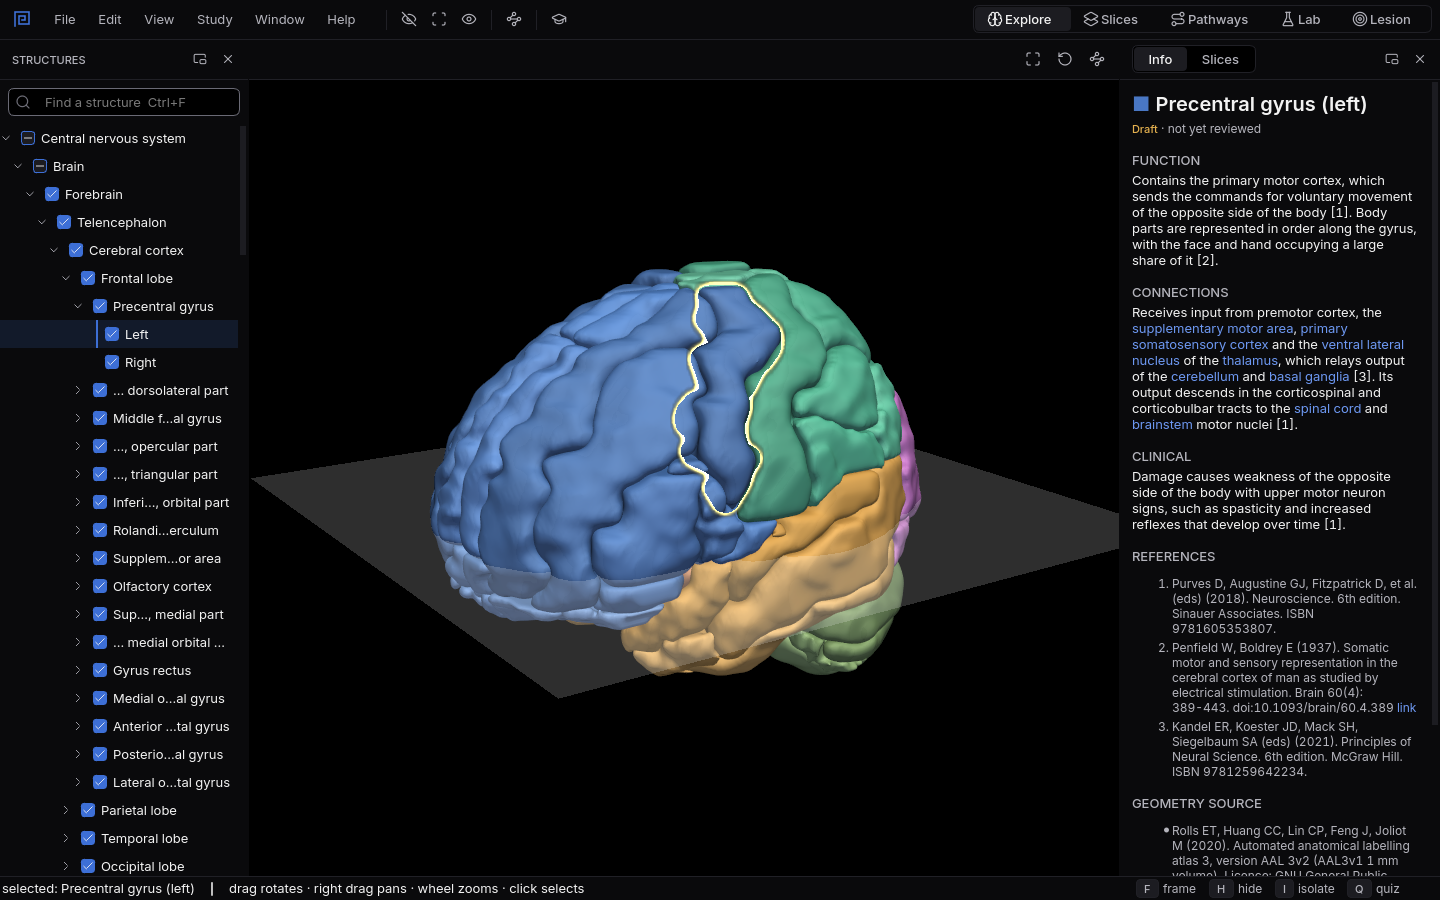
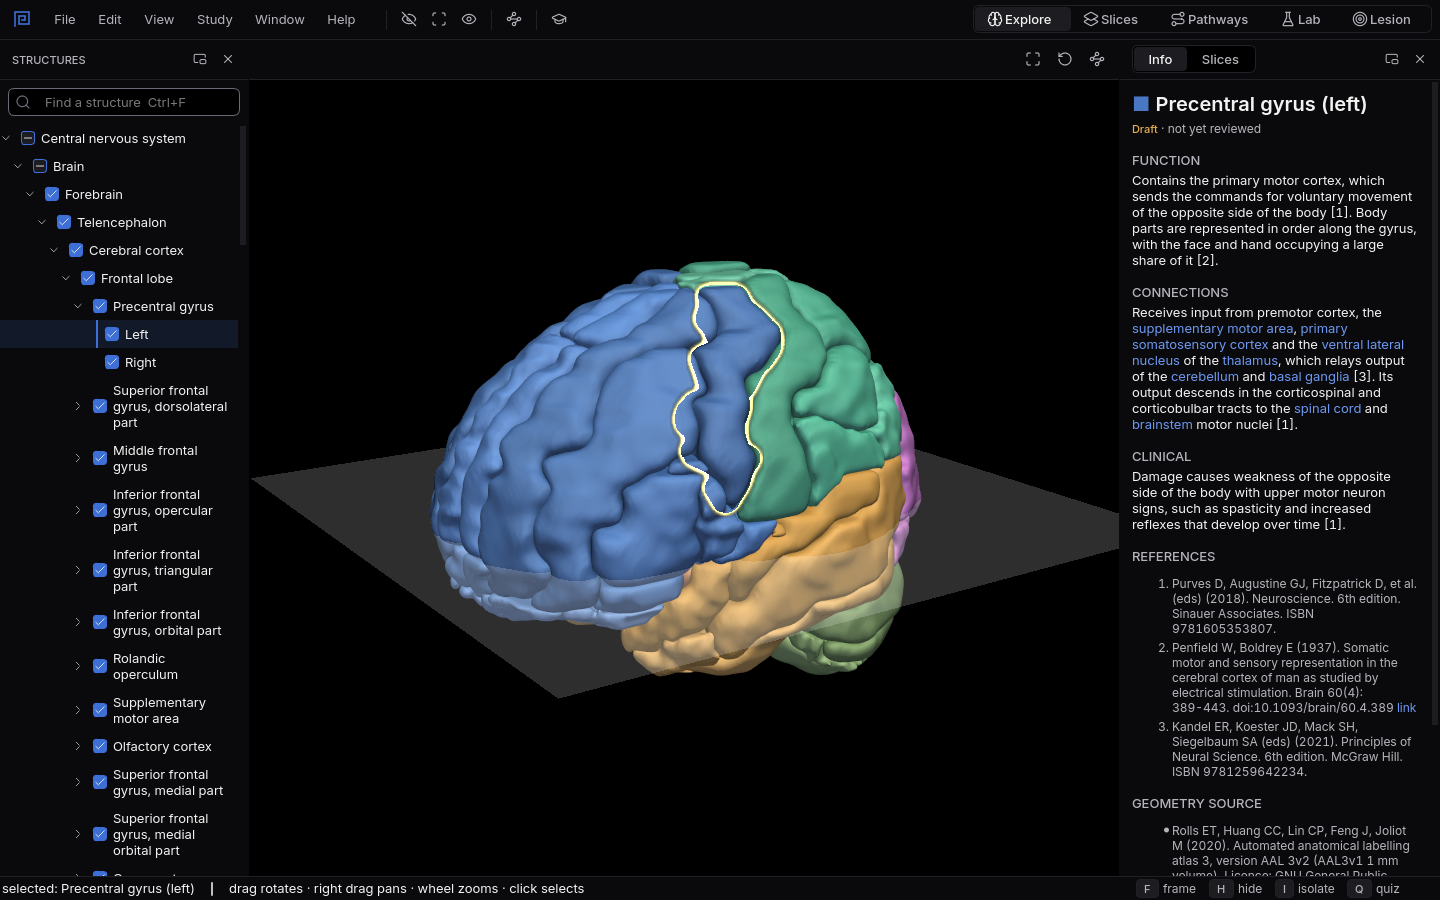
Wrap long structure names onto more lines instead of cutting them

Changed region(s): [[0.0312, 0.4044, 0.1562, 0.9956]]

diff --git a/cns_desktop/views/structure_tree.py b/cns_desktop/views/structure_tree.py
@@ -2,7 +2,7 @@ from __future__ import annotations
 
 import re
 
-from PySide6.QtCore import QSignalBlocker, Qt
+from PySide6.QtCore import QEvent, QRect, QSignalBlocker, QSize, Qt
 from PySide6.QtWidgets import (QStyle, QStyledItemDelegate, QStyleOptionViewItem, QTreeWidget,
                                QTreeWidgetItem, QVBoxLayout, QWidget)
 
@@ -13,6 +13,7 @@ from ..state import AppState
 ID_ROLE = Qt.ItemDataRole.UserRole
 SHORT_ROLE = Qt.ItemDataRole.UserRole + 1
 SIDE = re.compile(r" \((?:left|right)\)$")
+MEASURE_LIMIT = 1 << 16
 
 
 def relative_name(name: str, parent: str | None) -> str:
@@ -27,48 +28,39 @@ def relative_name(name: str, parent: str | None) -> str:
     return rest[:1].upper() + rest[1:] if rest else name
 
 
-def shorten(name: str, metrics, width: int) -> str:
-    if metrics.horizontalAdvance(name) <= width:
-        return name
-    found = SIDE.search(name)
-    side = found.group() if found else ""
-    base = name[:found.start()] if found else name
-    head, comma, rest = base.rpartition(", ")
-    part = f"{comma}{rest}" if comma else ""
-    if comma:
-        base = head
-    tail = part + side
-    if tail:
-        room = width - metrics.horizontalAdvance(tail)
-        if room >= metrics.horizontalAdvance(base[:3] + "…"):
-            return metrics.elidedText(base, Qt.TextElideMode.ElideRight, room) + tail
-        if room >= metrics.horizontalAdvance("…"):
-            return "…" + tail
-    if part:
-        lead = "… "
-        budget = width - metrics.horizontalAdvance(lead) - metrics.horizontalAdvance(side)
-        if budget >= metrics.horizontalAdvance(rest[:3] + "…"):
-            return lead + metrics.elidedText(rest, Qt.TextElideMode.ElideRight, budget) + side
-    if side:
-        room = width - metrics.horizontalAdvance(side)
-        if room >= metrics.horizontalAdvance("……"):
-            unsided = name[:found.start()]
-            return metrics.elidedText(unsided, Qt.TextElideMode.ElideMiddle, room) + side
-    return metrics.elidedText(name, Qt.TextElideMode.ElideMiddle, width)
-
-
 class NameDelegate(QStyledItemDelegate):
+    def _text_width(self, option, index) -> int:
+        view = self.parent()
+        depth, parent = 0, index.parent()
+        while parent.isValid():
+            depth, parent = depth + 1, parent.parent()
+        left = view.indentation() * (depth + (1 if view.rootIsDecorated() else 0))
+        item = QStyleOptionViewItem(option)
+        self.initStyleOption(item, index)
+        item.rect = QRect(0, 0, max(view.viewport().width() - left, 1),
+                          max(item.rect.height(), item.fontMetrics.height()))
+        style = view.style()
+        text = style.subElementRect(QStyle.SubElement.SE_ItemViewItemText, item, view)
+        margin = style.pixelMetric(QStyle.PixelMetric.PM_FocusFrameHMargin, item, view)
+        return max(text.width() - 2 * margin - 2, 1)
+
+    def sizeHint(self, option, index) -> QSize:
+        hint = super().sizeHint(option, index)
+        text = index.data(Qt.ItemDataRole.DisplayRole) or ""
+        metrics = option.fontMetrics
+        box = QRect(0, 0, self._text_width(option, index), MEASURE_LIMIT)
+        lines = metrics.boundingRect(box, Qt.TextFlag.TextWordWrap, text).height()
+        return QSize(hint.width(), hint.height() + max(0, lines - metrics.height()))
+
     def paint(self, painter, option, index) -> None:
         view = QStyleOptionViewItem(option)
         self.initStyleOption(view, index)
+        view.features |= QStyleOptionViewItem.ViewItemFeature.WrapText
         widget = option.widget
         style = widget.style() if widget is not None else None
         if style is None:
             super().paint(painter, option, index)
             return
-        text = style.subElementRect(QStyle.SubElement.SE_ItemViewItemText, view, widget)
-        view.text = shorten(view.text, view.fontMetrics, text.width() - 2 * style.pixelMetric(
-            QStyle.PixelMetric.PM_FocusFrameHMargin, view, widget) - 2)
         style.drawControl(QStyle.ControlElement.CE_ItemViewItem, view, painter, widget)
 
 
@@ -80,8 +72,10 @@ class StructureTree(QWidget):
         self.tree = QTreeWidget()
         self.tree.setHeaderHidden(True)
         self.tree.setIndentation(SIZE["indent"])
-        self.tree.setTextElideMode(Qt.TextElideMode.ElideMiddle)
         self.tree.setItemDelegate(NameDelegate(self.tree))
+        self.tree.setWordWrap(True)
+        self._width = 0
+        self.tree.viewport().installEventFilter(self)
         self.tree.setHorizontalScrollBarPolicy(Qt.ScrollBarPolicy.ScrollBarAlwaysOff)
         layout = QVBoxLayout(self)
         layout.setContentsMargins(0, GAP["small"], 0, 0)
@@ -162,6 +156,14 @@ class StructureTree(QWidget):
                 else:
                     mark = Qt.CheckState.PartiallyChecked
                 item.setCheckState(0, mark)
+
+    def eventFilter(self, watched, event) -> bool:
+        if watched is self.tree.viewport() and event.type() == QEvent.Type.Resize:
+            width = event.size().width()
+            if width != self._width:
+                self._width = width
+                self.tree.doItemsLayout()
+        return super().eventFilter(watched, event)
 
     def apply_filter(self, text: str) -> None:
         atlas = self.state.atlas

diff --git a/tests/test_desktop_tree_names.py b/tests/test_desktop_tree_names.py
@@ -1,61 +1,7 @@
 import pytest
-from PySide6.QtGui import QFont, QFontMetrics
 from PySide6.QtWidgets import QApplication
 
-from cns_desktop.views.structure_tree import NameDelegate, relative_name, shorten
-
-
-@pytest.fixture(scope="module")
-def metrics():
-    QApplication.instance() or QApplication([])
-    return QFontMetrics(QFont())
-
-
-def room_for(metrics, text):
-    return metrics.horizontalAdvance(text) + 2
-
-
-def test_a_name_that_fits_is_left_alone(metrics):
-    name = "Thalamus"
-    assert shorten(name, metrics, room_for(metrics, name)) == name
-
-
-def test_the_part_after_the_last_comma_survives(metrics):
-    opercular = "Inferior frontal gyrus, opercular part"
-    triangular = "Inferior frontal gyrus, triangular part"
-    width = room_for(metrics, "Inferior f…, triangular part")
-    a, b = shorten(opercular, metrics, width), shorten(triangular, metrics, width)
-    assert a.endswith(", opercular part") and b.endswith(", triangular part")
-    assert a != b
-    assert metrics.horizontalAdvance(a) <= width and metrics.horizontalAdvance(b) <= width
-
-
-def test_the_side_survives(metrics):
-    width = room_for(metrics, "Precentral g… (left)")
-    left = shorten("Precentral gyrus (left)", metrics, width)
-    right = shorten("Precentral gyrus (right)", metrics, width)
-    assert left.endswith(" (left)") and right.endswith(" (right)")
-    assert left.startswith("Precentral")
-
-
-def test_a_comma_and_a_side_both_survive(metrics):
-    name = "Inferior frontal gyrus, opercular part (left)"
-    width = room_for(metrics, "Inferior f…, opercular part (left)")
-    assert shorten(name, metrics, width).endswith(", opercular part (left)")
-
-
-def test_without_a_comma_or_side_the_middle_goes(metrics):
-    name = "Superior temporal sulcus"
-    short = shorten(name, metrics, room_for(metrics, "Superior …l sulcus"))
-    assert short.startswith("Superior") and short.endswith("sulcus") and "…" in short
-
-
-def test_when_even_the_tail_does_not_fit_its_start_is_kept(metrics):
-    width = room_for(metrics, "Mediodorsal nucl")
-    medial = shorten("Mediodorsal nucleus, medial magnocellular part", metrics, width)
-    lateral = shorten("Mediodorsal nucleus, lateral parvocellular part", metrics, width)
-    assert medial.startswith("… medial") and lateral.startswith("… lateral")
-    assert metrics.horizontalAdvance(medial) <= width
+from cns_desktop.views.structure_tree import NameDelegate, StructureTree, relative_name
 
 
 def test_the_tree_uses_the_name_delegate(qapp_window):
@@ -72,19 +18,6 @@ def qapp_window(tmp_path, toy_atlas):
     w = MainWindow(Atlas.open(toy_atlas), progress_path=tmp_path / "p.sqlite")
     yield w
     w.close()
-
-
-def test_in_a_tight_spot_the_front_shrinks_to_an_ellipsis(metrics):
-    width = room_for(metrics, "…, opercular part")
-    assert shorten("Inferior frontal gyrus, opercular part", metrics, width) == "…, opercular part"
-
-
-def test_a_long_tail_still_keeps_its_side(metrics):
-    width = room_for(metrics, "Superior fron")
-    left = shorten("Superior frontal gyrus, medial orbital part (left)", metrics, width)
-    right = shorten("Superior frontal gyrus, medial orbital part (right)", metrics, width)
-    assert left.endswith("(left)") and right.endswith("(right)")
-    assert metrics.horizontalAdvance(left) <= width
 
 
 def test_a_child_shows_only_what_differs_from_its_parent():
@@ -118,3 +51,21 @@ def test_the_tree_shows_relative_names_and_full_names_while_searching(qapp, toy_
         assert item.text(0) == "Left"
     finally:
         window.close()
+
+
+def test_a_long_name_wraps_in_a_narrow_tree_and_fits_one_line_when_wide(qapp, toy_atlas):
+    from cns_atlas import Atlas
+    from cns_desktop.state import AppState
+
+    panel = StructureTree(AppState(Atlas.open(toy_atlas)))
+    panel.tree.expandAll()
+    panel.resize(130, 500)
+    panel.show()
+    qapp.processEvents()
+    tree = panel.tree
+    long, short = panel.items[1], panel.items[2]
+    assert tree.visualItemRect(long).height() > tree.visualItemRect(short).height()
+    panel.resize(600, 500)
+    qapp.processEvents()
+    assert tree.visualItemRect(long).height() == tree.visualItemRect(short).height()
+    panel.close()

diff --git a/docs/decisions.md b/docs/decisions.md
@@ -1071,7 +1071,9 @@ changes, and chose this over one row per kind of change.
 2026-11-19, changes decision 51. A tree item whose name starts with its parent's name shows only
 the rest: "Precentral gyrus (left)" under "Precentral gyrus" reads "Left", and "Inferior frontal
 gyrus, orbital part" under "Inferior frontal gyrus" reads "Orbital part". Other items keep their
-full name. The full name stays on hover and in the status bar, and while a search filter is active
+full name, and a name too long for the panel wraps onto more lines instead of being cut. The full
+name stays on hover and in the status bar, and while a search filter is active
 every item shows its full name, since a match may appear without its parent nearby.
 Why: 395 of the 660 items repeated their parent's name, so at the panel's width they were cut in
-the middle ("Precentra... (left)") and the part that told them apart was lost.
+the middle ("Precentra... (left)") and the part that told them apart was lost; the owner chose
+wrapping over a smaller indent for the long names that remain.

diff --git a/site/handbook/explore.md b/site/handbook/explore.md
@@ -31,7 +31,8 @@ and scroll to zoom. `F` frames the selection, `R` resets the view.
 `Ctrl+F` to find a structure by name, abbreviation, synonym or atlas label. Selecting a group, such
 as the frontal lobe, highlights everything inside it. Inside a group the list shows only what tells
 its parts apart, so the two halves of the precentral gyrus read **Left** and **Right**; hover over
-an item for its full name. While you search, every item shows its full name.
+an item for its full name. A long name wraps onto a second line instead of being cut. While you
+search, every item shows its full name.
 
 **Take it apart.** `H` hides the selection, `I` isolates it so it is all you see, and `U` shows
 everything again. The tick boxes in the list do the same for any part: unticking a group hides all
